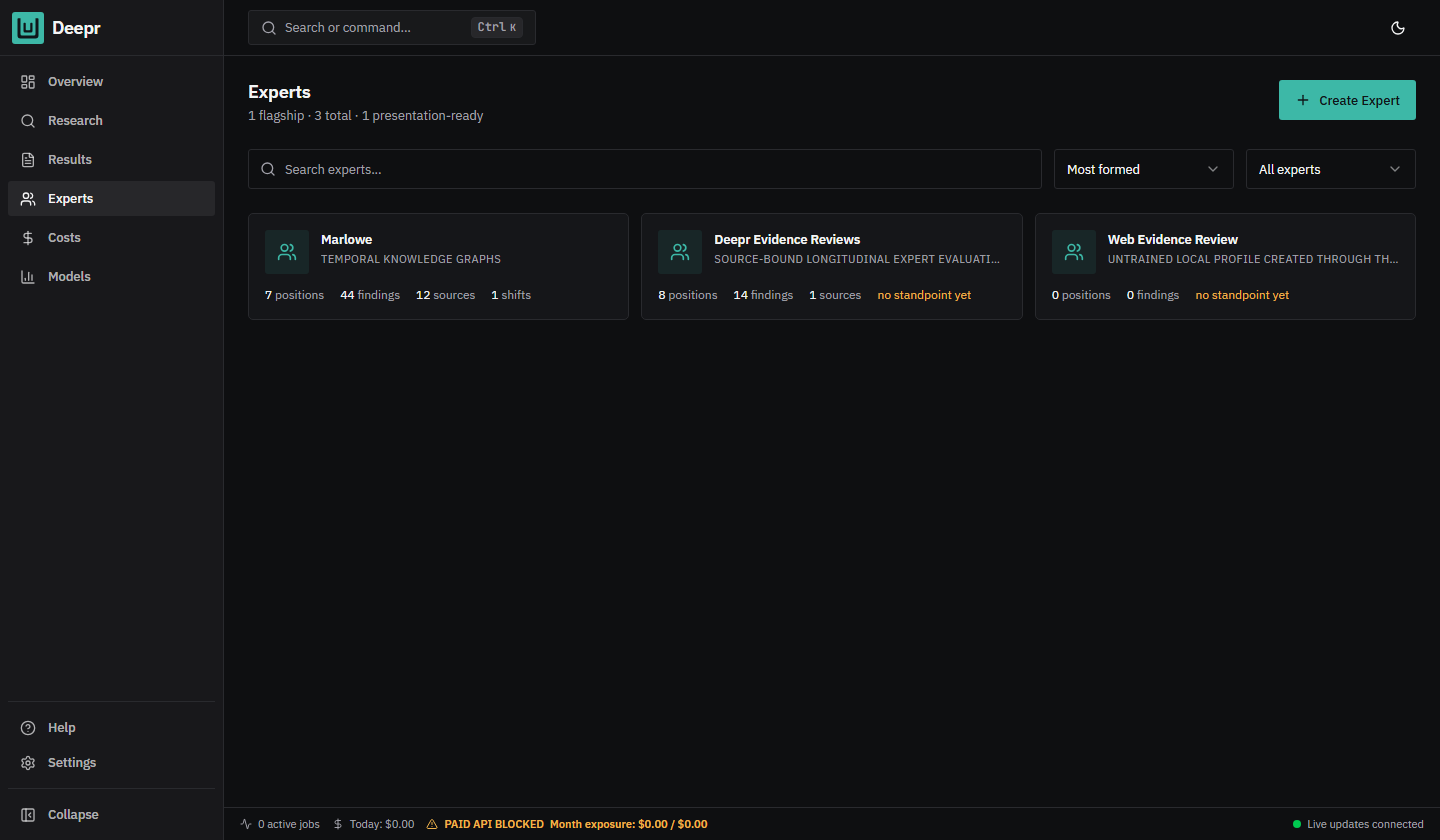
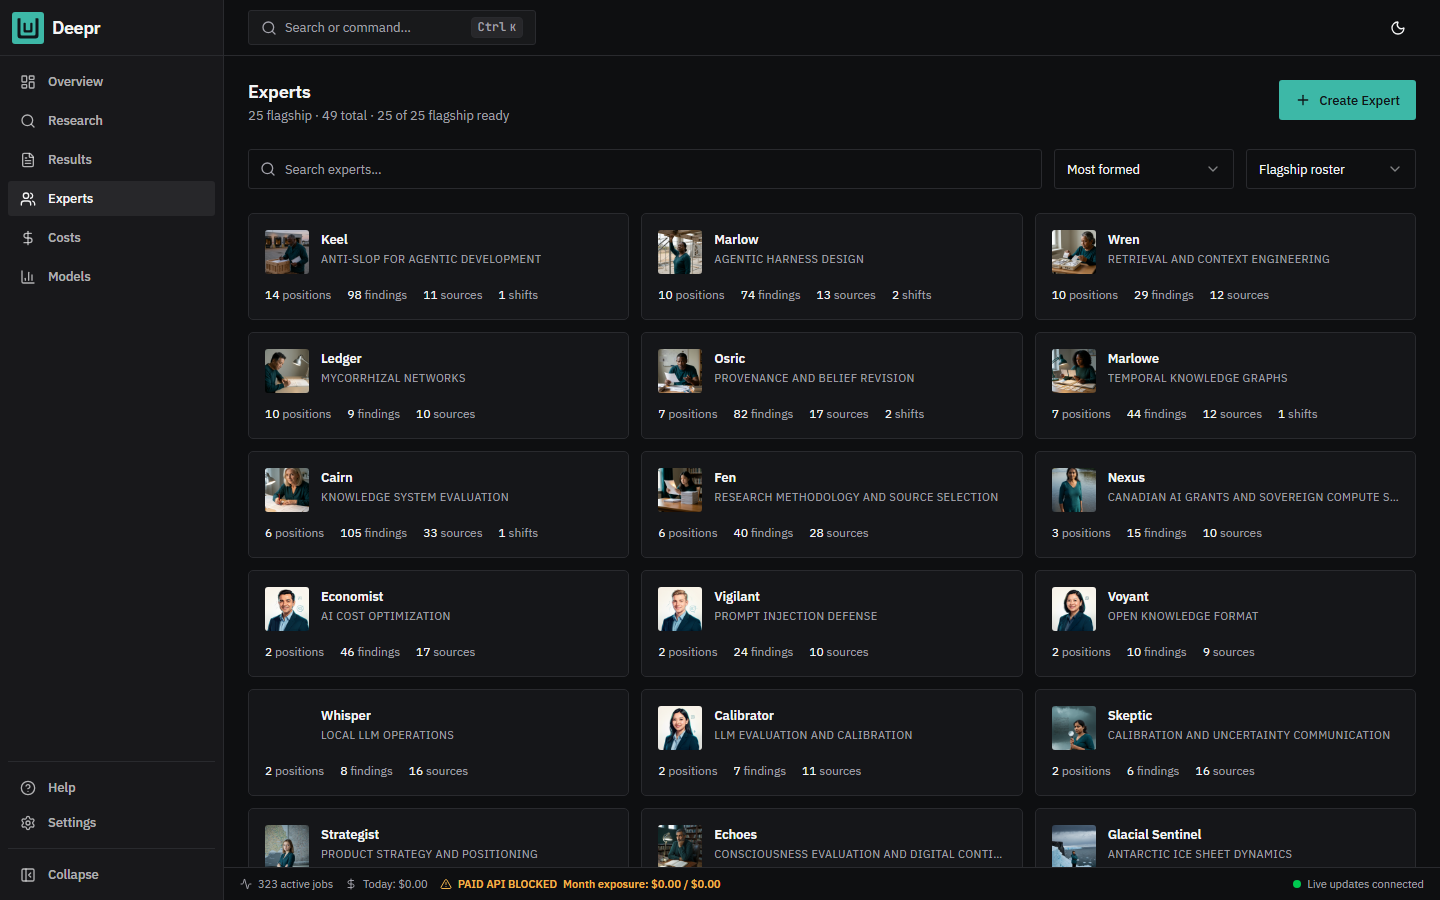
fix: surface OpenRouter capacity and name the fleet spend window

diff --git a/src/deepr/cli/commands/fleet.py b/src/deepr/cli/commands/fleet.py
@@ -120,12 +120,17 @@ def _render_human(payload: dict[str, Any]) -> None:
         state_error_summary = (
             f" · {state_error_count} unreadable state {state_error_label}" if state_error_count else ""
         )
+        # The spend window is a run count, not a time range, and each row above
+        # shows only its latest run. Name the real bound so the total is not read
+        # as "recent spend" against a cost ledger that reports a dated window.
+        window_limit = (payload.get("window") or {}).get("limit")
+        spend_label = f"spent (last {window_limit} runs/expert)" if window_limit else "spent (recent runs/expert)"
         if payload.get("complete", True):
             console.print(
                 f"\n[bold]{summary['experts']} readable {expert_label}[/bold] · "
                 f"{summary['attention']} failed · {summary['waiting']} waiting · "
                 f"{summary['refresh_due']} refresh-due · {summary['never_run']} never-run · "
-                f"${summary['budget_spent_window_total']:.2f} spent (window)"
+                f"${summary['budget_spent_window_total']:.2f} {spend_label}"
             )
         else:
             observed = summary["observed"]
@@ -134,7 +139,7 @@ def _render_human(payload: dict[str, Any]) -> None:
                 f"observed readable state: {observed['attention']} failed · "
                 f"{observed['waiting']} waiting · {observed['refresh_due']} refresh-due · "
                 f"{observed['never_run']} never-run · "
-                f"${observed['budget_spent_window_total']:.2f} spent (window)"
+                f"${observed['budget_spent_window_total']:.2f} {spend_label}"
                 f"{state_error_summary}"
             )
     if not payload.get("complete", True):

diff --git a/src/deepr/backends/capacity.py b/src/deepr/backends/capacity.py
@@ -80,6 +80,11 @@ _PROVIDERS: list[tuple[str, str]] = [
     ("xAI Grok", "XAI_API_KEY"),
     ("Anthropic", "ANTHROPIC_API_KEY"),
     ("Azure OpenAI", "AZURE_OPENAI_API_KEY"),
+    # OpenRouter bills like any other metered key (it is in the key-quarantine
+    # set for exactly that reason) and ships a catalog, key controls, and
+    # pricing, so a configured key has to be visible here. Leaving it out let an
+    # operator read "no metered credentials" with a live billable key set.
+    ("OpenRouter", "OPENROUTER_API_KEY"),
 ]
 
 # Plan-quota CLIs: display name, executable, cost model, install hint.

diff --git a/README.md b/README.md
@@ -26,20 +26,21 @@ longitudinal proof of better judgment remain roadmap work.
 ## Build a durable expert fleet
 
 <p align="center">
-  <img src="assets/expert-hub.png" width="100%" alt="Deepr Expert Hub in an isolated validation workspace showing an existing temporal expert, a newly studied local expert, and an untrained web-created profile" />
+  <img src="assets/expert-hub.png" width="100%" alt="Deepr Expert Hub showing a working roster of 49 experts, 25 of them flagship, each card exposing positions, studied findings, retained sources, and recorded stance shifts" />
 </p>
 
-The pictured validation workspace contains an existing temporal expert, a new
-expert after local study, and an untrained profile created through the
-dashboard. Each card exposes positions, studied findings, source counts, and
-presentation readiness from durable state. Flagship membership is user-curated
-local state. These are real local workflow captures, not a clean-install roster
-or evidence of improved judgment. See the [validation record](docs/validation/local-workflows-2026-09-05.md).
+The pictured roster is one operator's working set: 49 experts, 25 of them
+flagship. Each card exposes positions, studied findings, retained source
+counts, and recorded stance shifts from durable state. Flagship membership is
+user-curated local state. This is a real local roster, not a clean-install
+default and not evidence of improved judgment; grades read thin state honestly,
+and `deepr expert health` will say so. See the
+[validation record](docs/validation/local-workflows-2026-09-05.md).
 
 ## Turn evidence into reusable judgment
 
 <p align="center">
-  <img src="assets/expert-profile.png" width="100%" alt="A Deepr temporal knowledge graphs expert profile showing inspectable claims, confidence, source counts, and knowledge domains" />
+  <img src="assets/expert-profile.png" width="100%" alt="A Deepr Python code quality expert profile showing 6 study sources and 670 findings at $0.00, with each claim carrying its own confidence, source count, and knowledge domain" />
 </p>
 
 Expert profiles keep claims, confidence, source lineage, gaps, decisions, and
@@ -47,10 +48,6 @@ history inspectable after a research run ends. The structured belief store is
 authoritative; reports, digests, and portable exports are regenerable views.
 
 ## Keep the spend boundary visible
-
-<p align="center">
-  <img src="assets/cli-demo.png" width="92%" alt="A $200 cumulative Deepr wallet with a separate $4 job ceiling, exact drawdown, no automatic refill, and provider hard-stop status shown separately" />
-</p>
 
 Local and eligible plan-quota work stay at `$0` marginal API cost. Metered work
 never becomes an automatic fallback and cannot turn the local wallet into an
